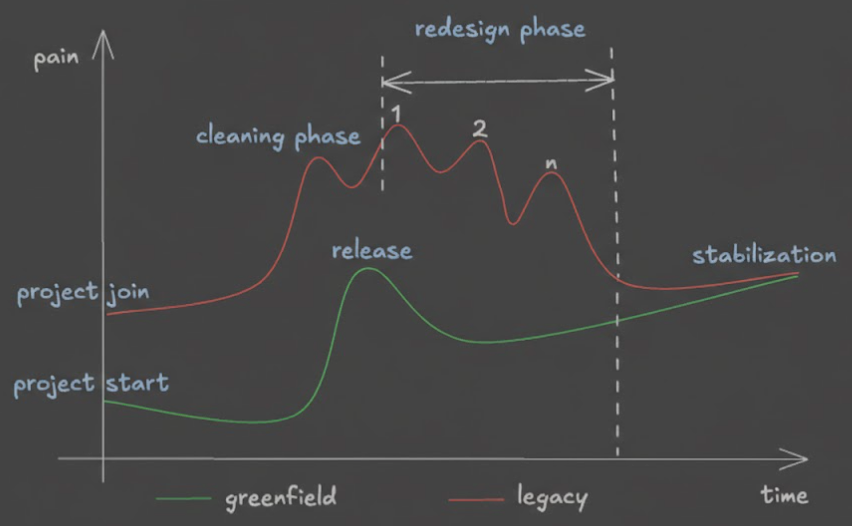
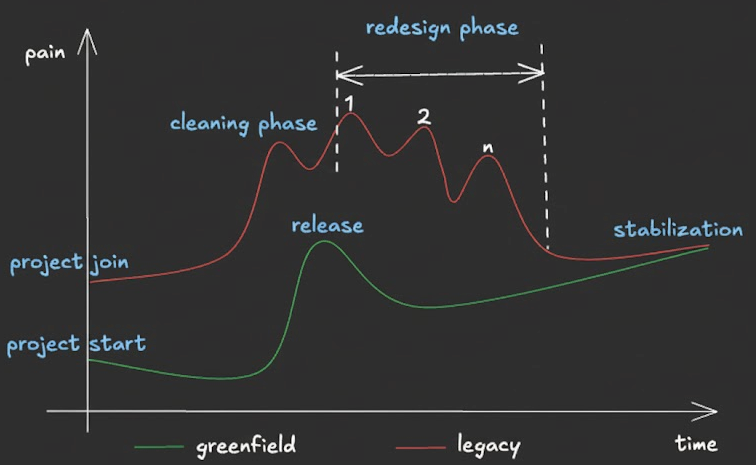
add articles on legacy vs greenfield projects and the impact of AI tools

Changed region(s): [[0.0, 0.0602, 1.0, 0.9935], [0.4868, 0.0, 0.6997, 0.1204], [0.6997, 0.7226, 0.7302, 0.7828]]

diff --git a/_posts/2026-01-26-legacy-greenfield-pain-is-temporary.md b/_posts/2026-01-26-legacy-greenfield-pain-is-temporary.md
@@ -1,68 +1,18 @@
 ---
-title: "Greenfield vs Legacy Projects: When do you like to suffer?"
-date: 2026-01-26 13:00:00 +/-0200
+title: "Greenfield vs Legacy Projects: Pain is Temporary"
+date: 2026-01-23 00:00:00 +/-0200
 description: Greenfield vs legacy software projects. Learn when to suffer, how to refactor effectively, and why alternating between both makes you a better engineer. Includes AI tools guide.
 categories: [ Software, Architecture ]
 tags: [ job, architecture ]
 image: /assets/images/legacy-greenfield-img.png
 ---
 
-## TL;DR
-
-**Greenfield**: Fun at first, painful when hitting production. You learn modern practices but miss constraint-driven
-creativity.
-
-**Legacy**: Painful at first, rewarding when you start improving it. You develop rare skills and deep system
-understanding.
-
-**Best approach**: Alternate between both throughout your career. Use AI tools to accelerate both. Focus on continuous
-improvement, not perfection.
-
 ## Motivation
 
-Recently I have realized that during my career I constantly switched from legacy into greenfield projects and vice
-versa. Each time I was facing different challenges and opportunities. Somewhere during my 5th year of experience I
-thought that only greenfield projects are worth doing, as they allow you to use the latest technologies and best
-practices but was I right? After reflecting on my experiences more deeply, I observed that IT projects like these are
-forgiving. On the other hand, legacy projects are those which people don't want to touch because of challenges.
-Looking closer, they have some unique benefits which are not obvious at first glance. I have decided to write down my
-thoughts on the differences between these two types of projects, the pros and cons of each, and how to navigate them
-effectively.
-
-### Scenario 1 - Greenfield
-
-You are starting a new greenfield project. You have the freedom to choose your modern tech stack, architecture, and
-design patterns from scratch. This allows you to implement best practices and modern technologies without being
-constrained by legacy systems. A domain expert is working closely with the team. And one very important thing, the
-system is not on production yet!
-
-### Scenario 2 - Legacy
-
-You are joining a legacy project that has been running for several years. The codebase is large and complex written by
-people who are now directors or no longer exist, technology stack is outdated. There is no single domain expert knowing
-all features and assumptions. System is handling tons of users every day.
-
-## Technology stack
-
-#### Greenfield project
-
-In greenfield projects, you can choose the latest technologies and frameworks that best suit your needs. There are a few
-architectural drivers to consider, such as company technology stack, team skill set, industry direction, performance,
-and
-maintainability. Of course, you can also play a bit with CV-driven development, which can be sometimes beneficial for
-people but also can lead to overengineering.
-
-#### Legacy project
-
-In legacy projects, you are often limited to the existing technology stack. Upgrading or changing technologies is nearly
-impossible, but it opens other opportunities like gaining unique skills. You don't believe? Try to find
-engineers who are able to migrate production application from VertX (VertX is a reactive application framework) 3 to
-VertX 4 and later to Spring Boot in system which is around 200-500k LoC. At the same time there is plenty of other
-outdated libraries and frameworks which you need to deal with. What if company needs engineers who are able to maintain
-both technologies? Some time ago I was checking job offers and I found out that such skills were among the requirements!
-Isn't it interesting?
-
-## Refactoring is the key
+After writing about [Greenfield vs Legacy Software: The Hidden Career Benefits of Legacy Code]({% post_url
+2026-01-19-legacy-greenfield-unexpected-benefits %}), I kept thinking: okay, but *how* do you actually make legacy work
+rewarding instead of soul-crushing? And how do you keep greenfield projects from becoming tomorrow's nightmare? Let's
+dive in.
 
 I've got a few thoughts about team morale in the cycle which I visualized in the diagram below. It's just my
 opinion—your observations may differ.
@@ -73,23 +23,27 @@ drops at production, while legacy pain peaks initially but improves as you gain 
 ![Pain diagram](/assets/images/legacy-greenfield-pain-progress.png)
 
 Let's look at working on the system from a different angle. What if work is not about adding only new features but
-making things better overall. Happy users make the business happy, a happy business puts less pressure on engineers.
-Engineers
-gain trust and space for improvement so freedom and capacity have appeared.
-That's the point where work is not about fixing bugs or adding new features only, but about change.
+making things better overall? Happy users make the business happy, a happy business puts less pressure on engineers.
+Engineers gain trust and space for improvement—freedom and capacity appear. That's the point where work is not about
+fixing bugs or adding new features only, but about change.
 
-Let's start from the beginning. When a new greenfield project is starting, the team is excited about new technology,
-architecture,
-no legacy codebase and delivering new experience for users. On the other hand there are things to do which are boring
-like
-setting up new service, gluing all frameworks, configuring CI/CD pipelines, adding monitoring, logging and alerting. If
-you are lucky, most of the things are automated by DevOps team or there are some templates which can be used out of the
-box. After that phase, the team is able to focus on delivering new features till system goes to production. After that
-moment, things are changing. Users are using the system, reporting bugs, engineers are woken up during night because
-unexpected things happen or alerting setup needs some tweaks. After a while project is stable but from other hand it is
-becoming more and more complex. That means work is no longer so exciting as before.
+To recap from [part 1]({% post_url 2026-01-19-legacy-greenfield-unexpected-benefits %}#scenario-1---greenfield):
 
-On the opposite site of spectrum, joining a legacy project is like hitting the wall. Luckily I've got some insights
+- **Greenfield**: Clean slate, modern stack, no production yet
+- **Legacy**: Complex codebase, outdated tech, live users, no clear documentation
+
+## Refactoring is the key
+
+When a new greenfield project is starting, the team is excited about new technology, architecture, no legacy codebase
+and delivering new experience for users. On the other hand there are things to do which are boring like setting up new
+service, gluing all frameworks, configuring CI/CD pipelines, adding monitoring, logging and alerting. If you are lucky,
+most of the things are automated by DevOps team or there are some templates which can be used out of the box. After that
+phase, the team is able to focus on delivering new features till system goes to production. After that moment, things
+are changing. Users are using the system, reporting bugs, engineers are woken up during night because unexpected things
+happen or alerting setup needs some tweaks. After a while project is stable but from other hand it is becoming more and
+more complex. That means work is no longer so exciting as before.
+
+On the opposite side of the spectrum, joining a legacy project is like hitting a wall. Luckily I've got some insights
 how instead of breaking it you can jump over it. How do you jump over that wall instead of breaking against it? The
 answer lies in two phases: cleaning and redesign. Let's start with the cleaning phase, which provides quick wins and
 builds momentum.
@@ -155,7 +109,8 @@ happens.
 ### Redesign phase
 
 This phase is about improving architecture and design of the system. It will take more time and effort but will bring a
-lot of value. Think about it as refactoring code, but at a higher architectural level.. Unfortunately, there is no silver bullet
+lot of value. Think about it as refactoring code, but at a higher architectural level. Unfortunately, there is no
+silver bullet
 here, it will be many cycles, each will be probably painful, each will require testing and validation, you will feel
 that there is no light in the tunnel. But trust me, there is one!
 There are two main design patterns which can help you to improve system
@@ -181,9 +136,27 @@ that structures code around business domains—to help identify and define bound
 refactoring the system to better align with bounded
 contexts. This can involve moving code between modules, creating new modules, and changing the way that modules interact
 with each other. This process can be complex and time-consuming, but it will bring significant benefits in terms of
-maintainability and scalability.Again, here you can use above-mentioned design patterns like ACL and Strangler Fig
+maintainability and scalability. Again, here you can use above-mentioned design patterns like ACL and Strangler Fig
 Pattern or Event Storming sessions to help with that. One of the hardest parts will be database schema changes and data
 migration. You need to plan it carefully, test it thoroughly, and ensure that there is no data loss or corruption.
+
+## Stabilization is the goal
+
+Notice something important in the pain diagram above: both the greenfield and legacy curves eventually meet at
+stabilization. This isn't just optimistic thinking - it's what happens when you consistently apply refactoring
+principles.
+
+The legacy path (red line) shows declining pain as you execute the cleaning and redesign phases we discussed. Each dead
+code removal, each monitoring improvement, each bounded context you clarify reduces the friction. The pain spikes
+labeled 1, 2, through n represent individual refactoring cycles - yes, they hurt temporarily, but each one moves you
+closer to stability.
+
+The greenfield path (green line) shows increasing pain post-release as complexity accumulates and technical debt builds.
+Without continuous refactoring, what started clean becomes tomorrow's legacy nightmare.
+
+**The takeaway?** Both project types require the same discipline. Legacy projects need systematic cleanup to reduce
+pain. Greenfield projects need proactive refactoring to prevent pain from accumulating. The destination is the same: a
+stable, well-architected system. The only difference is the starting point.
 
 ## Conclusion
 
@@ -207,6 +180,7 @@ decisions.
 
 With the arrival of AI tools, both paths have become more accessible. AI accelerates documentation, code understanding,
 and routine refactoring—but it doesn't replace the judgment and experience you'll build by working in both environments.
+There will be more about that in the next blog post.
 
 Whether you're starting fresh or diving into decades-old code, remember: your goal isn't perfection—it's **continuous
 improvement**. Every refactoring, every cleaned-up module, every improved test brings value. Small, consistent
@@ -244,15 +218,4 @@ something that won't become the nightmare you once inherited.
 
 - [C4 Model for Software Architecture](https://c4model.com/) - Simon Brown  
   A practical approach to software architecture diagramming.
-
-### Methodologies and Practices
-
-- [Event Storming](https://www.eventstorming.com/) - Alberto Brandolini  
-  Collaborative workshop technique for exploring complex business domains.
-
-- [Domain-Driven Design Community](https://www.dddcommunity.org/)  
-  Resources, patterns, and community discussions on DDD practices.
-
-- [The Twelve-Factor App](https://12factor.net/)  
-  Methodology for building modern, scalable applications.
 

diff --git a/_posts/2026-02-02-legacy-greenfield-ai-impact.md b/_posts/2026-02-02-legacy-greenfield-ai-impact.md
@@ -105,14 +105,13 @@ One of the most unexpected things in greenfield projects is that you will suffer
 After a few quite smooth months you will face real production issues, bugs, and performance problems. System is growing
 up, features are coming, and you are no longer in safe space. It's time to deal with real users. You are adding new
 feature, smooth review, merge, deploy to production and... boom. Something is broken, users are complaining, but you
-have
-no clue why.
-Welcome to real world of software development! Now it's time to work harder on monitoring, logging, and alerting. Some
-dashboards are not showing new path, logs are missing important traces. Time to fix it all, but what if you don't have
-expertise in such things?
+have no clue why. Welcome to real world of software development! Now it's time to work harder on monitoring, logging,
+and alerting. Some dashboards are not showing new path, logs are missing important traces. Time to fix it all, but what
+if you don't have expertise in such things?
 
 No worries, you will learn it very fast. There are three excellent books which can help you to move
-forward. [Site Reliability Engineering by Google](https://sre.google/books/) is an outstanding starting point. You can find
+forward. [Site Reliability Engineering by Google](https://sre.google/books/) is an outstanding starting point. You can
+find
 there comprehensive guidelines how to structure production support, incident management, and monitoring.
 
 You are joining a legacy project. First month is like being in big labyrinth, probably without any map. No knowledge
@@ -229,7 +228,8 @@ happens.
 ### Redesign phase
 
 This phase is about improving architecture and design of the system. It will take more time and effort but will bring a
-lot of value. Think about it as refactoring code, but at a higher architectural level.. Unfortunately, there is no silver bullet
+lot of value. Think about it as refactoring code, but at a higher architectural level.. Unfortunately, there is no
+silver bullet
 here, it will be many cycles, each will be probably painful, each will require testing and validation, you will feel
 that there is no light in the tunnel. But trust me, there is one!
 There are two main design patterns which can help you to improve system

diff --git a/_posts/2026-01-19-legacy-greenfield-unexpected-benefits.md b/_posts/2026-01-19-legacy-greenfield-unexpected-benefits.md
@@ -203,9 +203,11 @@ resilient greenfield systems.
 So, when to suffer? Now. Embrace the legacy work. It is the gym where senior engineers are forged. And when you finally
 get that next blank slate, you won't just build it fast—you'll build it to survive.
 
-Soon I will publish a follow-up article about strategies and best practices for navigating both greenfield and legacy
-projects
-effectively. Stay tuned!
+#### Next chapter
+
+It's part 1 of a series on greenfield vs legacy projects.
+In [Greenfield vs Legacy Projects: Pain is temporary!]({% post_url 2026-01-26-legacy-greenfield-pain-is-temporary %}),
+I explore practical strategies for refactoring legacy systems and making greenfield projects sustainable.
 
 **The code you write today is tomorrow's legacy. Make it count.**
 
